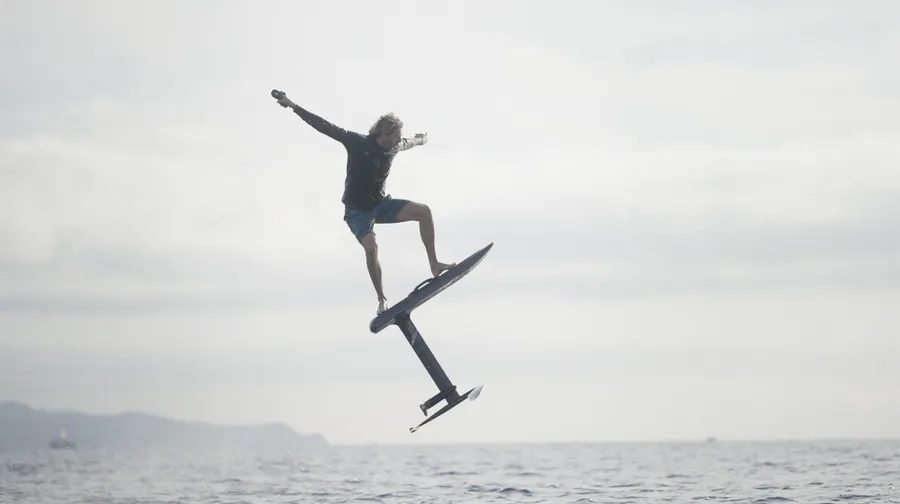
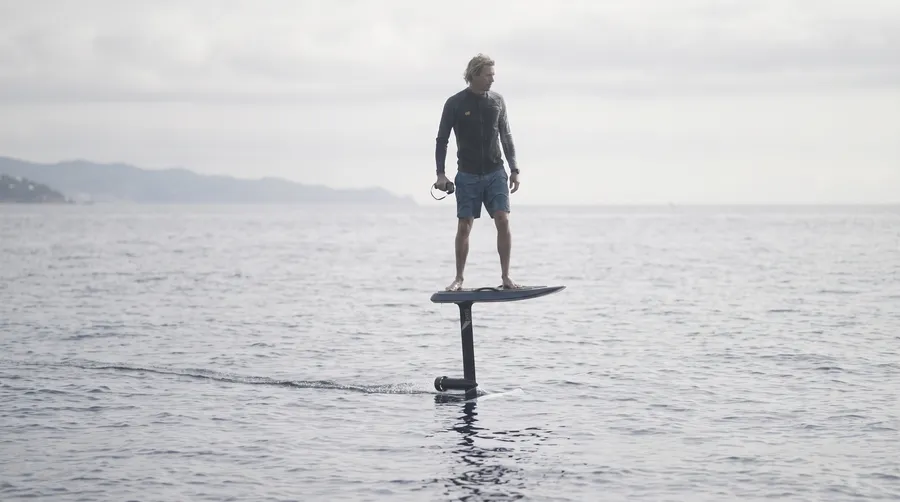
feat(efoil): imagen que muestra la actividad, no un salto de nivel avanzado
La foto del socio mostraba a alguien en pleno salto y sin motor a la vista.
Un e-foil es una tabla eléctrica y el cliente que reserva una clase no
salta: despega y navega. O sea que la foto no representaba lo que se vende.

Generada con Higgsfield (nano_banana_2) a partir de la foto del socio y con
su permiso y el de la persona que aparecía. Ahora se ve el mástil, el ala,
la unidad de motor en la base y el mando inalámbrico en la mano, con la
misma luz plomiza, el mismo color apagado y la misma costa de fondo.

Es una ilustración sintética y así queda anotado en el catálogo: en cuanto
el socio pase una foto real de una clase, se sustituye. La original suya
sigue en el historial de git por si se prefiere.

diff --git a/shared/jetskiProducts.ts b/shared/jetskiProducts.ts
@@ -154,7 +154,13 @@ export const JETSKI_PRODUCTS: JetSkiProduct[] = [
     description:
       "Aprende a volar sobre el agua con una tabla eléctrica de hidrofoil. La mayoría de la gente despega en su primera sesión: el instructor va contigo desde la playa y el curso incluye seguro y material de seguridad. Sin licencia y sin experiencia previa.",
     image: "/images/boats/efoil-blanes/efoil-blanes-costa-brava.webp",
-    altText: "Rider volando sobre el agua con una tabla de e-foil frente a Blanes, Costa Brava",
+    // Illustration generated with AI (Higgsfield, 2026-07-26) from the partner's
+    // own photo, at the owner's request. The partner's original showed an expert
+    // mid-aerial on a foil with no motor in shot, which is not what a customer
+    // does in a lesson; this one shows the ride itself, with the mast, the wing,
+    // the electric motor pod and the handheld throttle visible. Swap it for a
+    // real photo of a lesson as soon as the partner sends one.
+    altText: "Persona navegando sobre el agua con una tabla de e-foil eléctrica frente a la costa de Blanes, Costa Brava",
     capacity: 1,
     specifications: {
       model: "Tabla eléctrica de hidrofoil (e-foil)",
